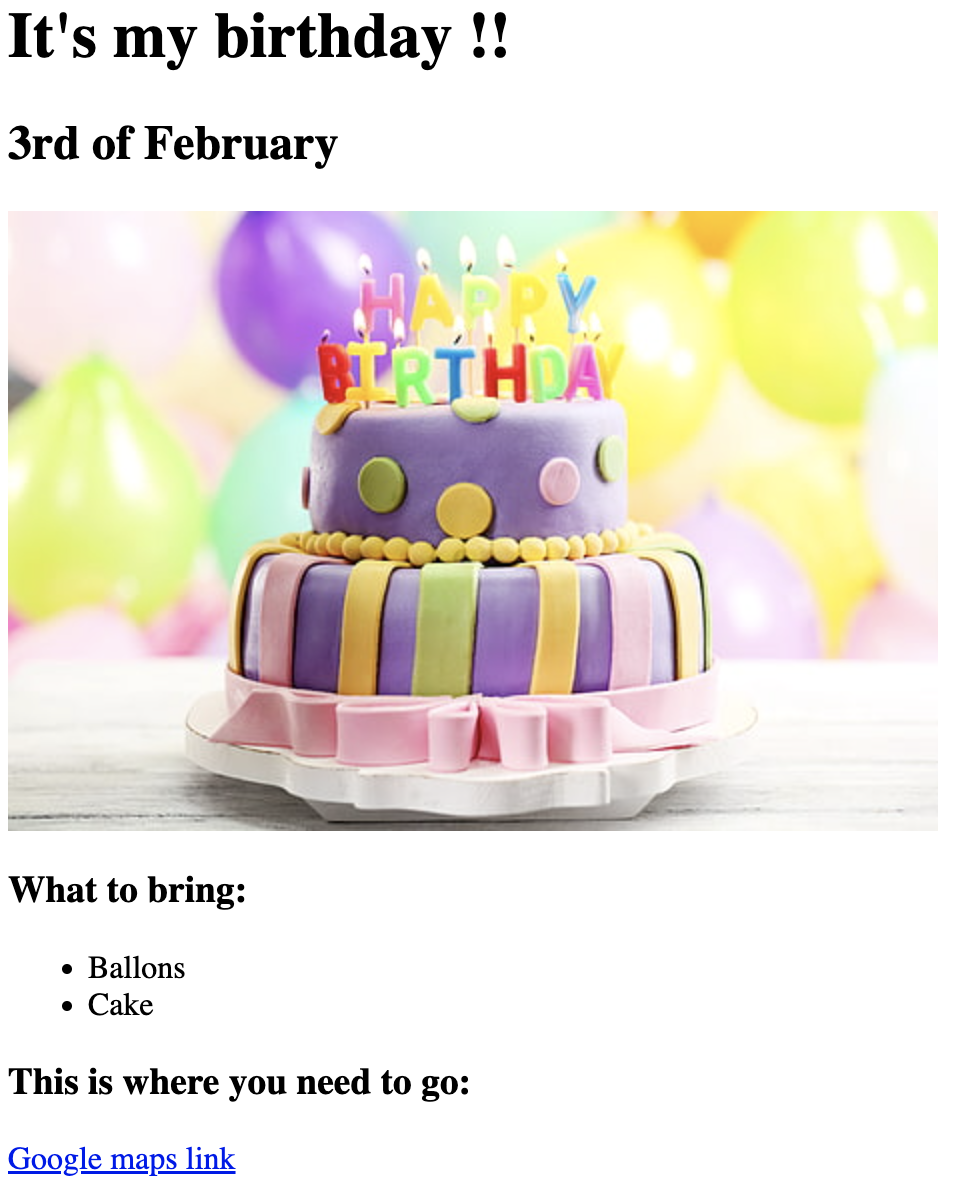
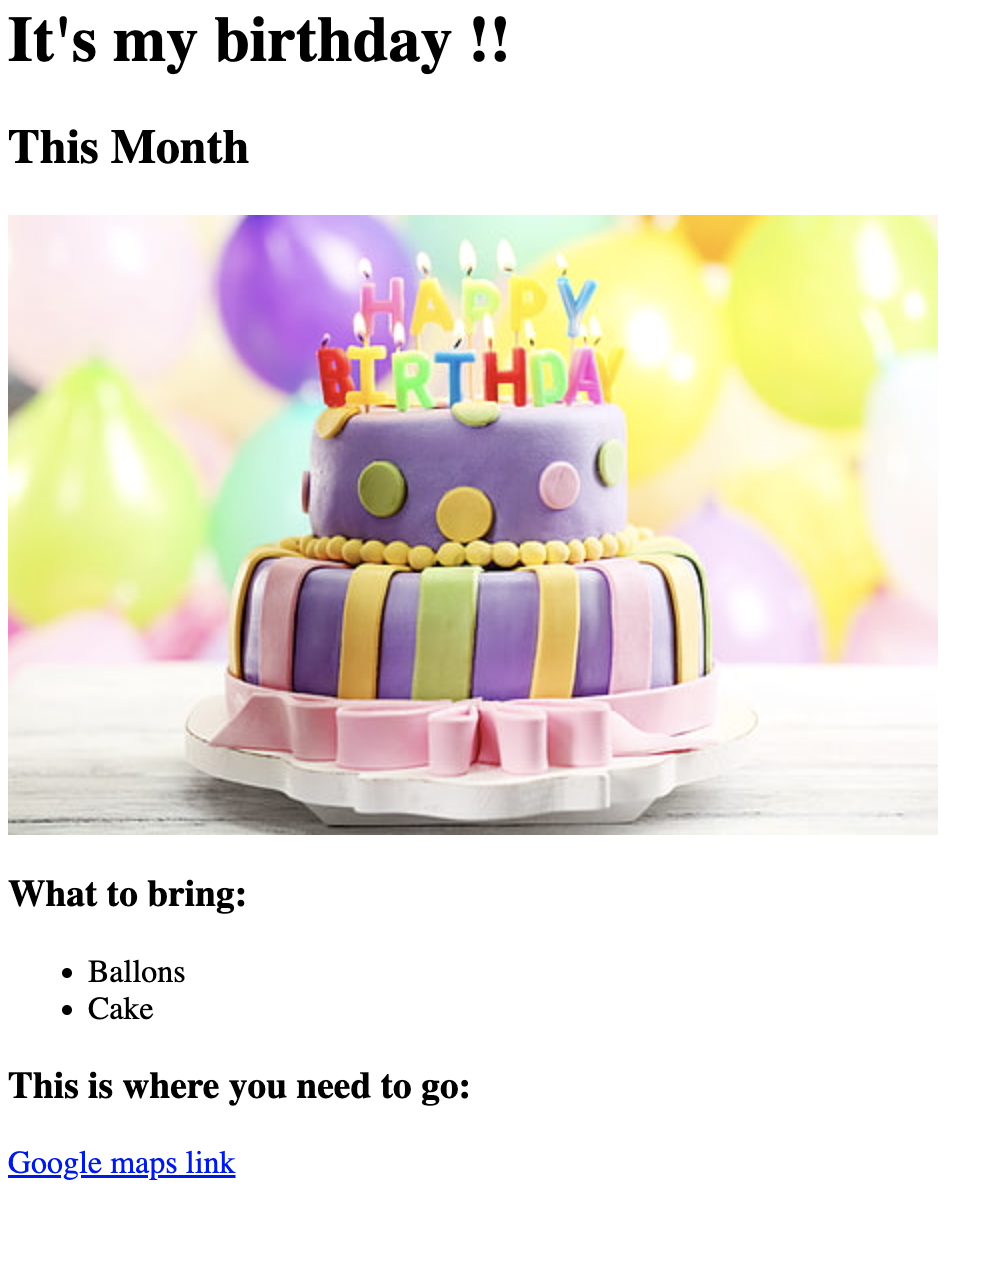
Add files via upload

diff --git a/index.html b/index.html
@@ -19,7 +19,7 @@
                 <a href ="./public/birthday-invite.html"> Birthday Invite </a>
                 
             </li>
-            <img height="200" src="./assets/images/birthday-invite.png">
+            <img height="200" src="./assets/images/pasta.png">
         <li>
             <a href="./public/book_Ranking.html"> Book Ranking </a>
         </li>

diff --git a/public/birthday-invite.html b/public/birthday-invite.html
@@ -1,5 +1,5 @@
 <h1>It's my birthday !!</h1>
-<h2>3rd of February</h2>
+<h2>This Month</h2>
 <img src="https://raw.githubusercontent.com/appbrewery/webdev/main/birthday-cake3.4.jpeg" alt="A birthday cake" />
 <h3>What to bring:</h3>
 <ul>
